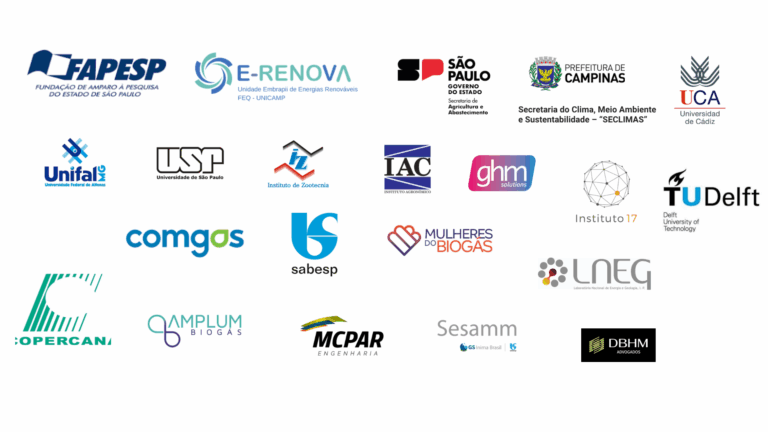
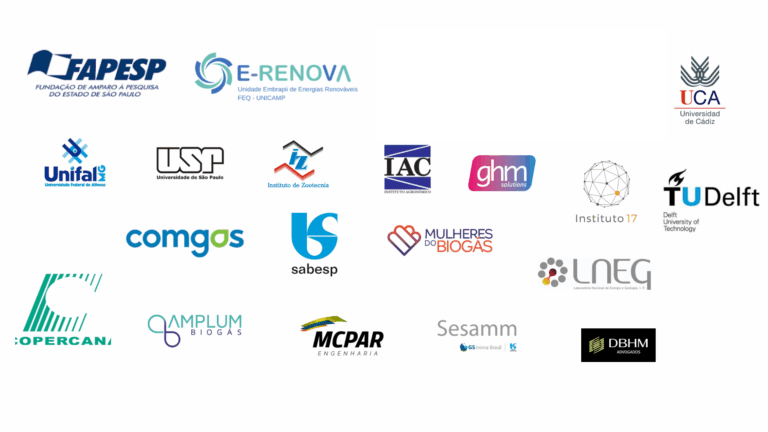
feat(compliance): adequação ao defeso eleitoral 2026 e guia de restauração

Changed region(s): [[0.5, 0.1204, 0.875, 0.3009], [0.6875, 0.1204, 0.8125, 0.2106]]

diff --git a/cp2b_web/src/pages/CronogramaEvento.jsx b/cp2b_web/src/pages/CronogramaEvento.jsx
@@ -34,9 +34,14 @@ const SCHEDULE = [
         speakers: [
           { name: 'Rosângela', role: { pt: 'Anfitriã / Boas-vindas', en: 'Host / Welcome' }, inst: 'NIPE', isModerator: false },
           { name: 'Ana Maria Frattini Fileti', role: { pt: 'Pró-Reitora de Pesquisa', en: 'Vice-Rector for Research' }, inst: 'UNICAMP', isModerator: false },
-          { name: 'Ricardo Rosário', role: { pt: 'Assessor Especial de Gabinete da Secretaria de Agricultura', en: 'Special Cabinet Advisor, Secretary of Agriculture' }, inst: 'Governo de SP', isModerator: false },
-          { name: 'Braz dos Santos Adegas Júnior', role: { pt: 'Secretário de Clima e Sustentabilidade', en: 'Secretary of Climate & Sustainability' }, inst: 'Prefeitura de Campinas', isModerator: false },
-          { name: 'Marisa Maia de Barros', role: { pt: 'Subsecretária de Energia e Mineração', en: 'Under-Secretary for Energy & Mining' }, inst: 'SEMIL-SP', isModerator: false },
+          // DEFESO ELEITORAL 2026 (04/07 a 25/10/2026): Cargos/instituições governamentais neutralizados temporariamente.
+          // Para restaurar pós-eleições (a partir de 26/10/2026):
+          // { name: 'Ricardo Rosário', role: { pt: 'Assessor Especial de Gabinete da Secretaria de Agricultura', en: 'Special Cabinet Advisor, Secretary of Agriculture' }, inst: 'Governo de SP', isModerator: false },
+          // { name: 'Braz dos Santos Adegas Júnior', role: { pt: 'Secretário de Clima e Sustentabilidade', en: 'Secretary of Climate & Sustainability' }, inst: 'Prefeitura de Campinas', isModerator: false },
+          // { name: 'Marisa Maia de Barros', role: { pt: 'Subsecretária de Energia e Mineração', en: 'Under-Secretary for Energy & Mining' }, inst: 'SEMIL-SP', isModerator: false },
+          { name: 'Ricardo Rosário', role: { pt: 'Representante Convidado', en: 'Guest Representative' }, inst: 'Setor Agroenergético', isModerator: false },
+          { name: 'Braz dos Santos Adegas Júnior', role: { pt: 'Especialista Convidado', en: 'Guest Specialist' }, inst: 'Sustentabilidade', isModerator: false },
+          { name: 'Marisa Maia de Barros', role: { pt: 'Especialista em Energia e Mineração', en: 'Energy & Mining Specialist' }, inst: 'Setor Energético', isModerator: false },
           { name: 'Bruna de Souza Moraes', role: { pt: 'Diretora do CP2b', en: 'CP2b Director' }, inst: 'CP2b / UNICAMP', isModerator: false },
         ],
       },
@@ -131,7 +136,9 @@ const SCHEDULE = [
         speakers: [
           { name: 'Leidiane Ferronato Mariani', role: { pt: 'Moderadora', en: 'Moderator' }, inst: 'Amplum Biogás', isModerator: true },
           { name: 'Renata Beckert Isfer', role: { pt: 'Procuradora', en: 'Attorney' }, inst: 'AGU', isModerator: false },
-          { name: 'Lais Palazzo Almada', role: { pt: 'Diretora de P&G e Biocombustíveis', en: 'Oil, Gas & Biofuels Director' }, inst: 'SEMIL-SP', isModerator: false },
+          // DEFESO ELEITORAL 2026 (04/07 a 25/10/2026): Para restaurar pós-eleições:
+          // { name: 'Lais Palazzo Almada', role: { pt: 'Diretora de P&G e Biocombustíveis', en: 'Oil, Gas & Biofuels Director' }, inst: 'SEMIL-SP', isModerator: false },
+          { name: 'Lais Palazzo Almada', role: { pt: 'Especialista em Biocombustíveis', en: 'Biofuels Specialist' }, inst: 'Setor de P&G', isModerator: false },
           { name: 'Maria Clara Marcon Pontelli', role: { pt: 'Analista Técnica', en: 'Technical Analyst' }, inst: 'ABIOGÁS', isModerator: false },
           { name: 'Paula Isabel da Costa Barbosa', role: { pt: 'Pesquisadora', en: 'Researcher' }, inst: 'EPE', isModerator: false },
         ],

diff --git a/src/components/ResearchMap.jsx b/src/components/ResearchMap.jsx
@@ -18,7 +18,9 @@ const ResearchMap = () => {
       headquarters: 'Sede',
       research: 'Pesquisa',
       companies: 'Empresas',
-      public: 'Governo'
+      // DEFESO ELEITORAL 2026: Rótulo neutralizado durante o período restritivo.
+      // Reverter para 'Governo' após 25/10/2026
+      public: 'Instituições Parceiras'
     },
     en: {
       tag: 'PARTNER NETWORK',
@@ -28,7 +30,9 @@ const ResearchMap = () => {
       headquarters: 'Headquarters',
       research: 'Research',
       companies: 'Companies',
-      public: 'Government'
+      // DEFESO ELEITORAL 2026: Neutralized label during restriction period.
+      // Revert to 'Government' after 25/10/2026
+      public: 'Partner Institutions'
     }
   }[language];
 
@@ -81,14 +85,16 @@ const ResearchMap = () => {
       description: language === 'pt' ? 'Cooperativa dos Plantadores de Cana' : 'Sugarcane Planters Cooperative',
       x: 48, y: 62
     },
-    {
-      id: 7,
-      name: 'SAASP',
-      city: 'São Paulo, SP',
-      category: 'public',
-      description: language === 'pt' ? 'Secretaria de Agricultura e Abastecimento' : 'Agriculture and Supply Secretary',
-      x: 66, y: 71
-    },
+    // DEFESO ELEITORAL 2026 (04/07 a 25/10/2026): Pin da SAASP ocultado temporariamente.
+    // Descomentar para restaurar pós-eleições (a partir de 26/10/2026):
+    // {
+    //   id: 7,
+    //   name: 'SAASP',
+    //   city: 'São Paulo, SP',
+    //   category: 'public',
+    //   description: language === 'pt' ? 'Secretaria de Agricultura e Abastecimento' : 'Agriculture and Supply Secretary',
+    //   x: 66, y: 71
+    // },
     {
       id: 8,
       name: 'IAC',

diff --git a/cp2b_web/src/data/content.js b/cp2b_web/src/data/content.js
@@ -171,10 +171,13 @@ The conception of CP2b and its own mission foresee the strong integration of bas
 
 export const partners = {
   host: { name: 'Núcleo Interdisciplinar de Planejamento Energético (NIPE/UNICAMP)', location: 'Campinas, SP' },
-  public: [
-    { name: 'Secretaria Estadual de Agricultura e Abastecimento de São Paulo (SAASP)', location: 'São Paulo, SP' },
-    { name: 'Secretaria Municipal do Verde, Meio Ambiente e Desenvolvimento Sustentável de Campinas (SMVMADS/PMC)', location: 'Campinas, SP' }
-  ],
+  // DEFESO ELEITORAL 2026 (04/07 a 25/10/2026): Ocultado temporariamente da vitrine institucional.
+  // Reativar após 25/10/2026 descomentando os parceiros abaixo:
+  // public: [
+  //   { name: 'Secretaria Estadual de Agricultura e Abastecimento de São Paulo (SAASP)', location: 'São Paulo, SP' },
+  //   { name: 'Secretaria Municipal do Verde, Meio Ambiente e Desenvolvimento Sustentável de Campinas (SMVMADS/PMC)', location: 'Campinas, SP' }
+  // ],
+  public: [],
   research: [
     { name: 'Universidade Federal de Alfenas (UNIFAL)', location: 'Alfenas, MG' },
     { name: 'Instituto Agronômico de Campinas (IAC/SAASP)', location: 'Campinas, SP' },

diff --git a/src/data/content.js b/src/data/content.js
@@ -124,10 +124,13 @@ The conception of CP2B and its own mission foresee the strong integration of bas
 
 export const partners = {
   host: { name: 'Núcleo Interdisciplinar de Planejamento Energético (NIPE/UNICAMP)', location: 'Campinas, SP' },
-  public: [
-    { name: 'Secretaria Estadual de Agricultura e Abastecimento de São Paulo (SAASP)', location: 'São Paulo, SP' },
-    { name: 'Secretaria Municipal do Verde, Meio Ambiente e Desenvolvimento Sustentável de Campinas (SMVMADS/PMC)', location: 'Campinas, SP' }
-  ],
+  // DEFESO ELEITORAL 2026 (04/07 a 25/10/2026): Ocultado temporariamente da vitrine institucional.
+  // Reativar após 25/10/2026 descomentando os parceiros abaixo:
+  // public: [
+  //   { name: 'Secretaria Estadual de Agricultura e Abastecimento de São Paulo (SAASP)', location: 'São Paulo, SP' },
+  //   { name: 'Secretaria Municipal do Verde, Meio Ambiente e Desenvolvimento Sustentável de Campinas (SMVMADS/PMC)', location: 'Campinas, SP' }
+  // ],
+  public: [],
   research: [
     { name: 'Universidade Federal de Alfenas (UNIFAL)', location: 'Alfenas, MG' },
     { name: 'Instituto Agronômico de Campinas (IAC/SAASP)', location: 'Campinas, SP' },

diff --git a/DEFESO_ELEITORAL_2026.md b/DEFESO_ELEITORAL_2026.md
@@ -1,0 +1,118 @@
+# Registro de Conformidade com o Defeso Eleitoral 2026 e Guia de Restauração
+
+**Projeto:** CP2B — Centro Paulista de Estudos em Biogás e Bioprodutos (UNICAMP)  
+**Período de Restrição Eleitoral:** 04 de julho de 2026 a 25 de outubro de 2026 (data do 2º turno)  
+**Data Autorizada para Restauração:** **26 de outubro de 2026**  
+**Documento de Referência:** Lei nº 9.504/1997, Resoluções do TSE e Ofício Circular GR 01/2026 (Reitoria da UNICAMP)
+
+---
+
+## 1. Contexto e Diretrizes Jurídico-Institucionais
+
+Durante o período de defeso eleitoral (três meses antes do pleito até a conclusão das eleições), a legislação brasileira (art. 73, VI, "b" da Lei 9.504/1997) proíbe a realização ou manutenção de **publicidade institucional** de atos, programas, obras, serviços e campanhas dos órgãos públicos e governos.
+
+### Critérios Adotados no CP2B:
+* **🟢 Manter (Preservação Científica e Territorial):** A delimitação geográfica da pesquisa ("Estado de São Paulo", "Campinas", "Piracicaba"), resultados de estudos, dashboards, mapas, equipe acadêmica, identidade UNICAMP / NIPE e atribuição a agências de fomento à pesquisa (FAPESP, CNPq).
+* **🔴 Ocultar Temporariamente (Conformidade Eleitoral):** Logotipos e assinaturas do Governo do Estado de São Paulo, brasões e marcas de prefeituras municipais, nomes de secretarias de governo em áreas promocionais/de parceiros, e identificação de cargos públicos em comissão/autoridades em mesas de abertura de eventos.
+
+---
+
+## 2. Inventário de Elementos Ocultados e Modificados
+
+| Componente / Arquivo | Elemento Original | Ação Aplicada no Defeso | Status de Reversibilidade |
+| :--- | :--- | :--- | :--- |
+| **Imagem de Parceiros**<br>[`cp2b_web/public/assets/parceiros.png`](file:///c:/Users/Lucas/Documents/cp2b_website/cp2b_web/public/assets/parceiros.png) e [`public/assets/parceiros.png`](file:///c:/Users/Lucas/Documents/cp2b_website/public/assets/parceiros.png) | Continha logotipos do **Governo de SP / Secretaria de Agricultura** e **Prefeitura de Campinas / SECLIMAS**. | • Backup criado como `parceiros_original.png`.<br>• Removidos os 2 blocos de logotipos governamentais na imagem ativa. | ✅ Arquivo original salvo com 100% de fidelidade em `parceiros_original.png`. |
+| **Página de Parceiros & Dados**<br>[`cp2b_web/src/data/content.js`](file:///c:/Users/Lucas/Documents/cp2b_website/cp2b_web/src/data/content.js#L173)<br>[`src/data/content.js`](file:///c:/Users/Lucas/Documents/cp2b_website/src/data/content.js#L126) | `public: [ { name: 'Secretaria Estadual de Agricultura...', location: 'São Paulo, SP' }, { name: 'Secretaria Municipal do Verde... Campinas', location: 'Campinas, SP' } ]` | Definido temporariamente como `public: []` com o bloco original comentado e marcado com tag de restauração. A seção não é renderizada no layout. | ✅ Basta descomentar o bloco em `content.js`. |
+| **Cronograma do Fórum**<br>[`CronogramaEvento.jsx`](file:///c:/Users/Lucas/Documents/cp2b_website/cp2b_web/src/pages/CronogramaEvento.jsx#L34) | Mesa de abertura com cargos e inst: `Governo de SP`, `Prefeitura de Campinas`, `SEMIL-SP`, `Secretaria de Agricultura`. | Cargos e siglas neutralizados para "Convidado Institucional", "Setor Agroenergético", "Sustentabilidade" e "Setor Energético", com código original em comentários. | ✅ Basta descomentar o bloco original em `CronogramaEvento.jsx`. |
+| **Painel 2 do Fórum**<br>[`CronogramaEvento.jsx`](file:///c:/Users/Lucas/Documents/cp2b_website/cp2b_web/src/pages/CronogramaEvento.jsx#L136) | Lais Palazzo Almada com filiação `inst: 'SEMIL-SP'`. | Filiação neutralizada para `inst: 'Setor de P&G'`. | ✅ Basta descomentar a linha original. |
+| **Mapa de Pesquisa**<br>[`src/components/ResearchMap.jsx`](file:///c:/Users/Lucas/Documents/cp2b_website/src/components/ResearchMap.jsx#L18) | Rótulo `'Governo'` e marcador de localização da Secretaria de Agricultura (SAASP). | Rótulo ajustado para `'Instituições Parceiras'` e pin da SAASP comentado. | ✅ Basta descomentar o pin e restaurar o rótulo. |
+
+---
+
+## 3. Passo a Passo para Reativação Pós-Eleições (A partir de 26/10/2026)
+
+Após o término do período eleitoral em **26 de outubro de 2026**, execute as etapas a seguir para restaurar integralmente a exibição de todos os parceiros e registros:
+
+### Etapa 1: Restaurar a Imagem Original de Parceiros
+Basta copiar o arquivo de backup de volta para `parceiros.png`:
+
+**No PowerShell (Windows):**
+```powershell
+Copy-Item cp2b_web/public/assets/parceiros_original.png cp2b_web/public/assets/parceiros.png -Force
+Copy-Item public/assets/parceiros_original.png public/assets/parceiros.png -Force
+```
+
+**No Bash (Linux/macOS):**
+```bash
+cp cp2b_web/public/assets/parceiros_original.png cp2b_web/public/assets/parceiros.png
+cp public/assets/parceiros_original.png public/assets/parceiros.png
+```
+
+---
+
+### Etapa 2: Reativar Parceiros Públicos no `content.js`
+
+1. Abra [`cp2b_web/src/data/content.js`](file:///c:/Users/Lucas/Documents/cp2b_website/cp2b_web/src/data/content.js#L173) e [`src/data/content.js`](file:///c:/Users/Lucas/Documents/cp2b_website/src/data/content.js#L126).
+2. Localize o bloco `export const partners`:
+3. Substitua `public: [],` por:
+```javascript
+  public: [
+    { name: 'Secretaria Estadual de Agricultura e Abastecimento de São Paulo (SAASP)', location: 'São Paulo, SP' },
+    { name: 'Secretaria Municipal do Verde, Meio Ambiente e Desenvolvimento Sustentável de Campinas (SMVMADS/PMC)', location: 'Campinas, SP' }
+  ],
+```
+
+---
+
+### Etapa 3: Restaurar Mesa de Abertura em `CronogramaEvento.jsx`
+
+1. Abra [`cp2b_web/src/pages/CronogramaEvento.jsx`](file:///c:/Users/Lucas/Documents/cp2b_website/cp2b_web/src/pages/CronogramaEvento.jsx#L34).
+2. Na sessão `'abertura'`, descomente a listagem original com os cargos e instituições oficiais:
+```javascript
+        speakers: [
+          { name: 'Rosângela', role: { pt: 'Anfitriã / Boas-vindas', en: 'Host / Welcome' }, inst: 'NIPE', isModerator: false },
+          { name: 'Ana Maria Frattini Fileti', role: { pt: 'Pró-Reitora de Pesquisa', en: 'Vice-Rector for Research' }, inst: 'UNICAMP', isModerator: false },
+          { name: 'Ricardo Rosário', role: { pt: 'Assessor Especial de Gabinete da Secretaria de Agricultura', en: 'Special Cabinet Advisor, Secretary of Agriculture' }, inst: 'Governo de SP', isModerator: false },
+          { name: 'Braz dos Santos Adegas Júnior', role: { pt: 'Secretário de Clima e Sustentabilidade', en: 'Secretary of Climate & Sustainability' }, inst: 'Prefeitura de Campinas', isModerator: false },
+          { name: 'Marisa Maia de Barros', role: { pt: 'Subsecretária de Energia e Mineração', en: 'Under-Secretary for Energy & Mining' }, inst: 'SEMIL-SP', isModerator: false },
+          { name: 'Bruna de Souza Moraes', role: { pt: 'Diretora do CP2b', en: 'CP2b Director' }, inst: 'CP2b / UNICAMP', isModerator: false },
+        ],
+```
+3. No Painel 2 (`sessionId: 'painel2'`), restabeleça a vinculação de Lais Palazzo Almada:
+```javascript
+          { name: 'Lais Palazzo Almada', role: { pt: 'Diretora de P&G e Biocombustíveis', en: 'Oil, Gas & Biofuels Director' }, inst: 'SEMIL-SP', isModerator: false },
+```
+
+---
+
+### Etapa 4: Restaurar Filtro e Marcador em `ResearchMap.jsx`
+
+1. Abra [`src/components/ResearchMap.jsx`](file:///c:/Users/Lucas/Documents/cp2b_website/src/components/ResearchMap.jsx).
+2. Restaure o rótulo `public: 'Governo'` (pt) e `public: 'Government'` (en).
+3. Descomente o item de localização da SAASP:
+```javascript
+    {
+      id: 7,
+      name: 'SAASP',
+      city: 'São Paulo, SP',
+      category: 'public',
+      description: language === 'pt' ? 'Secretaria de Agricultura e Abastecimento' : 'Agriculture and Supply Secretary',
+      x: 66, y: 71
+    },
+```
+
+---
+
+### Etapa 5: Validação e Publicação
+Após realizar os passos acima, execute:
+```bash
+cd cp2b_web
+npm run test:run
+npm run build
+```
+E realize o commit e push para o repositório principal:
+```bash
+git add .
+git commit -m "chore: restauração de parceiros institucionais e eventos pós-defeso eleitoral 2026"
+git push origin main
+```
